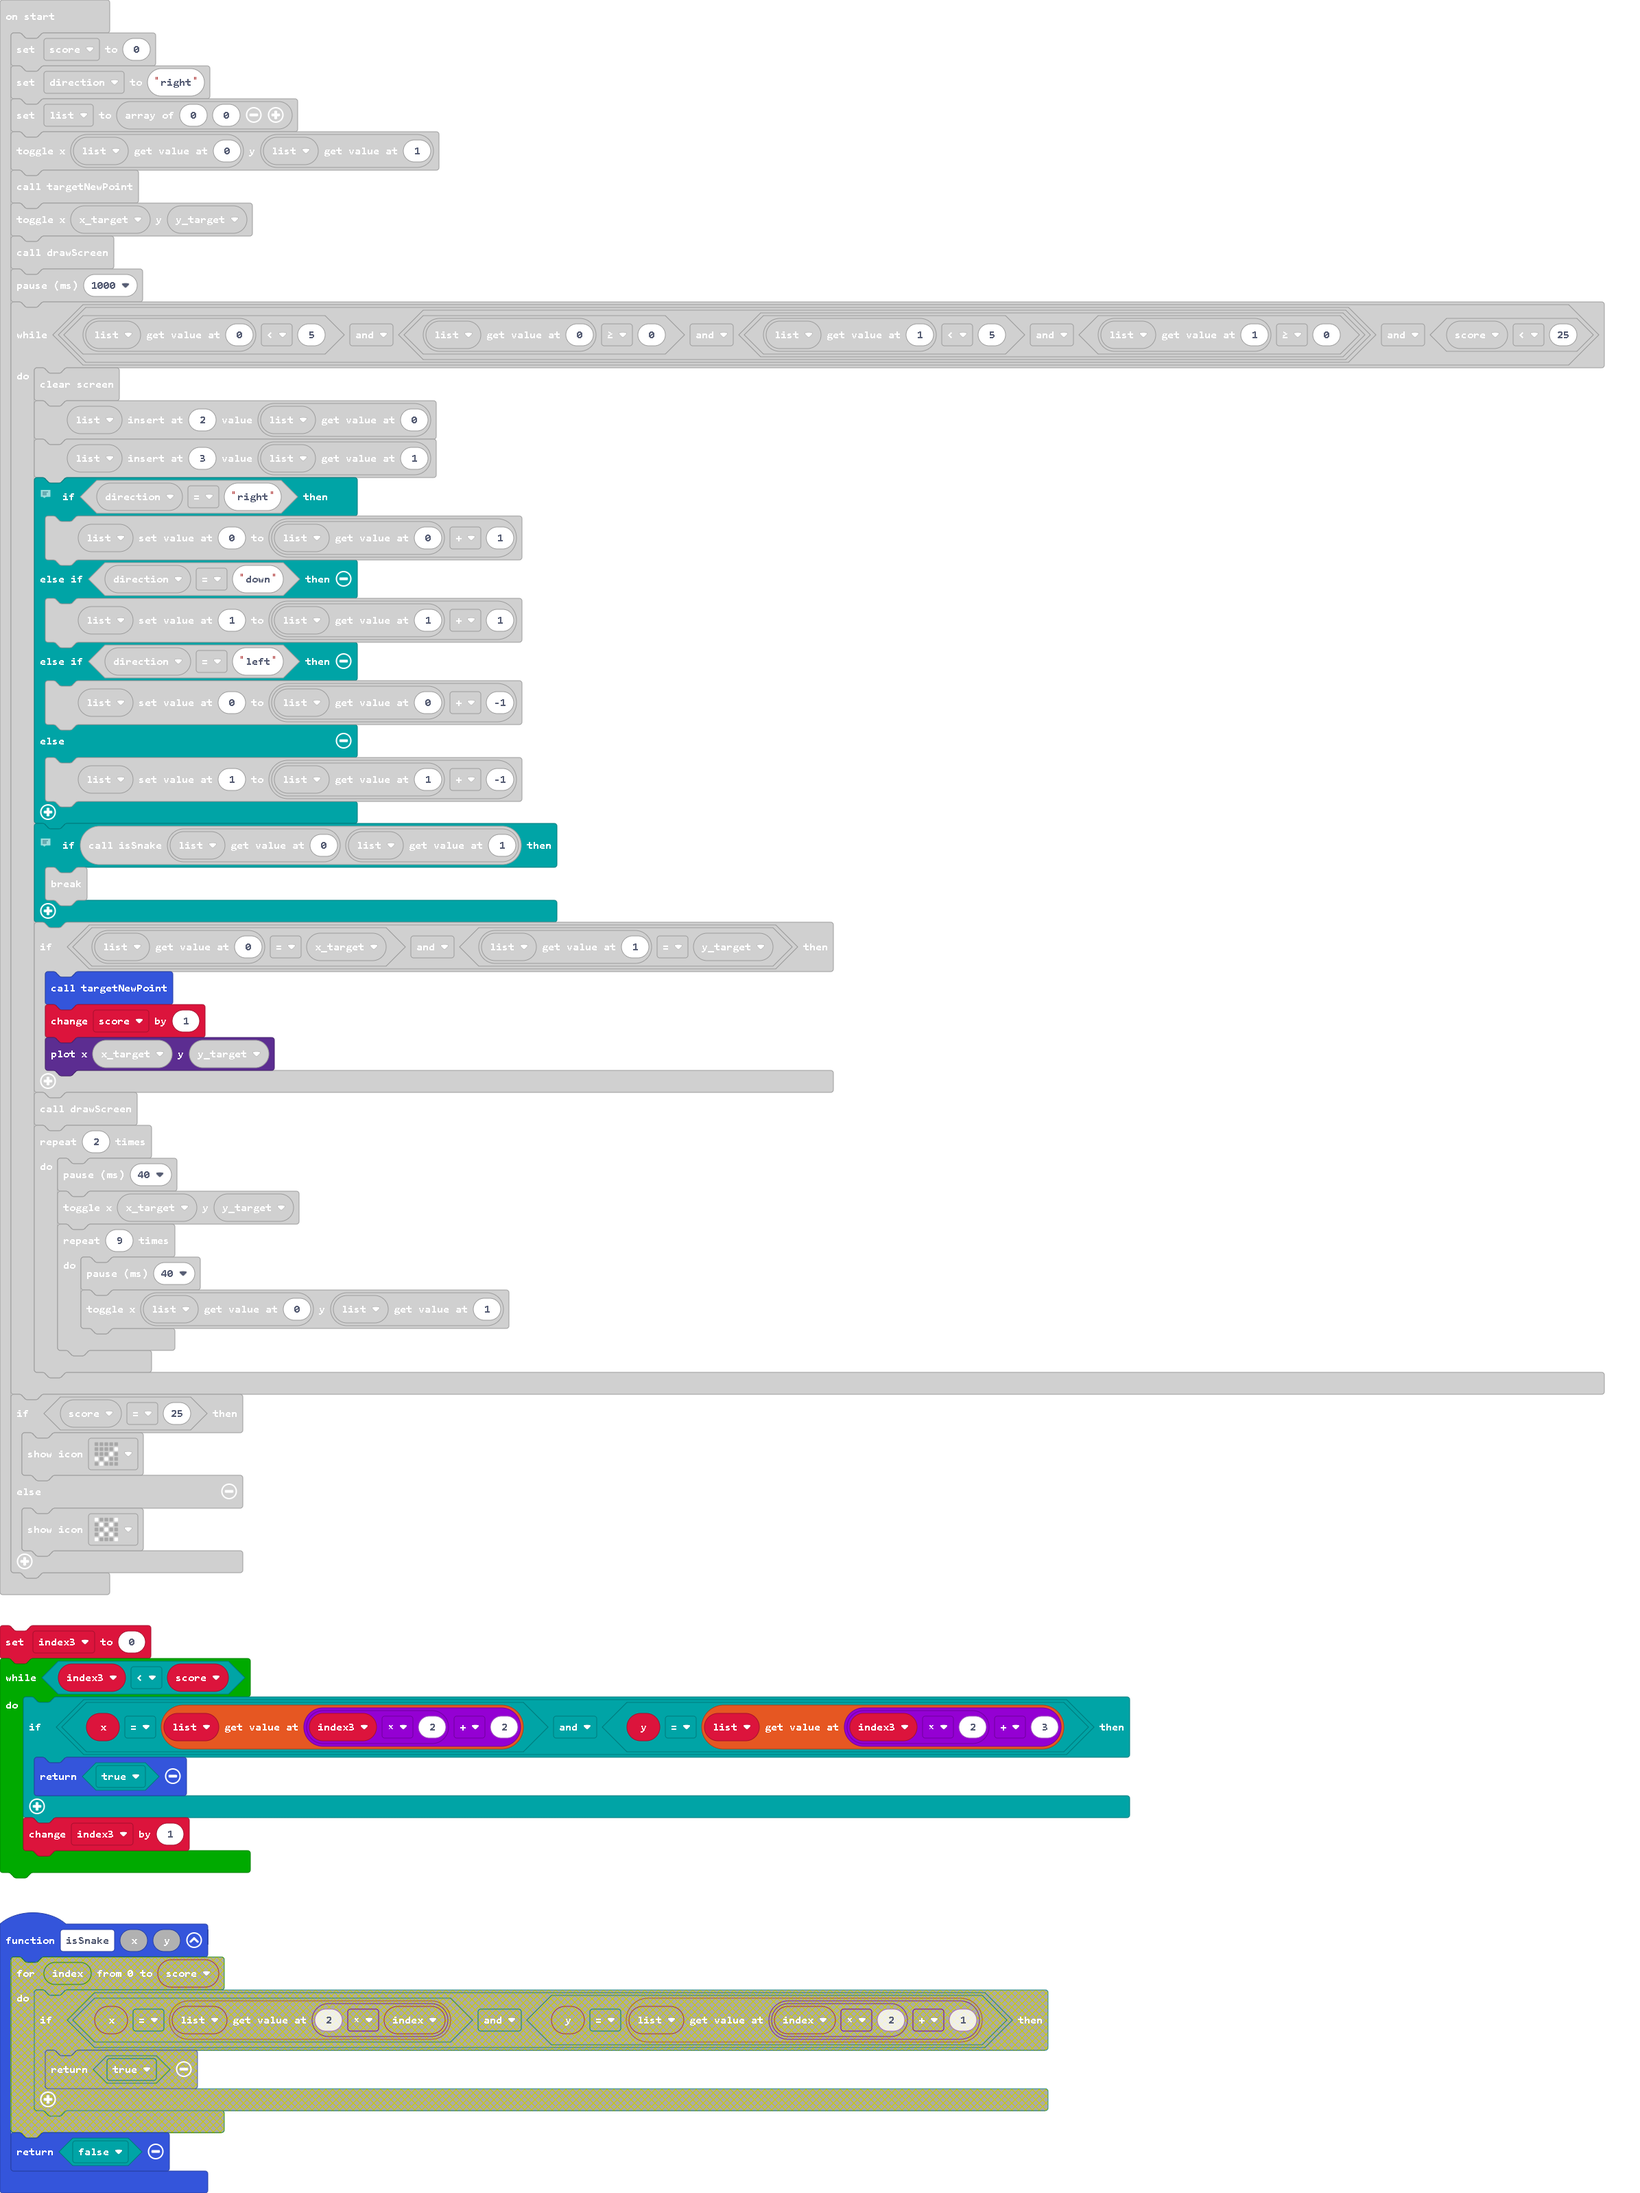
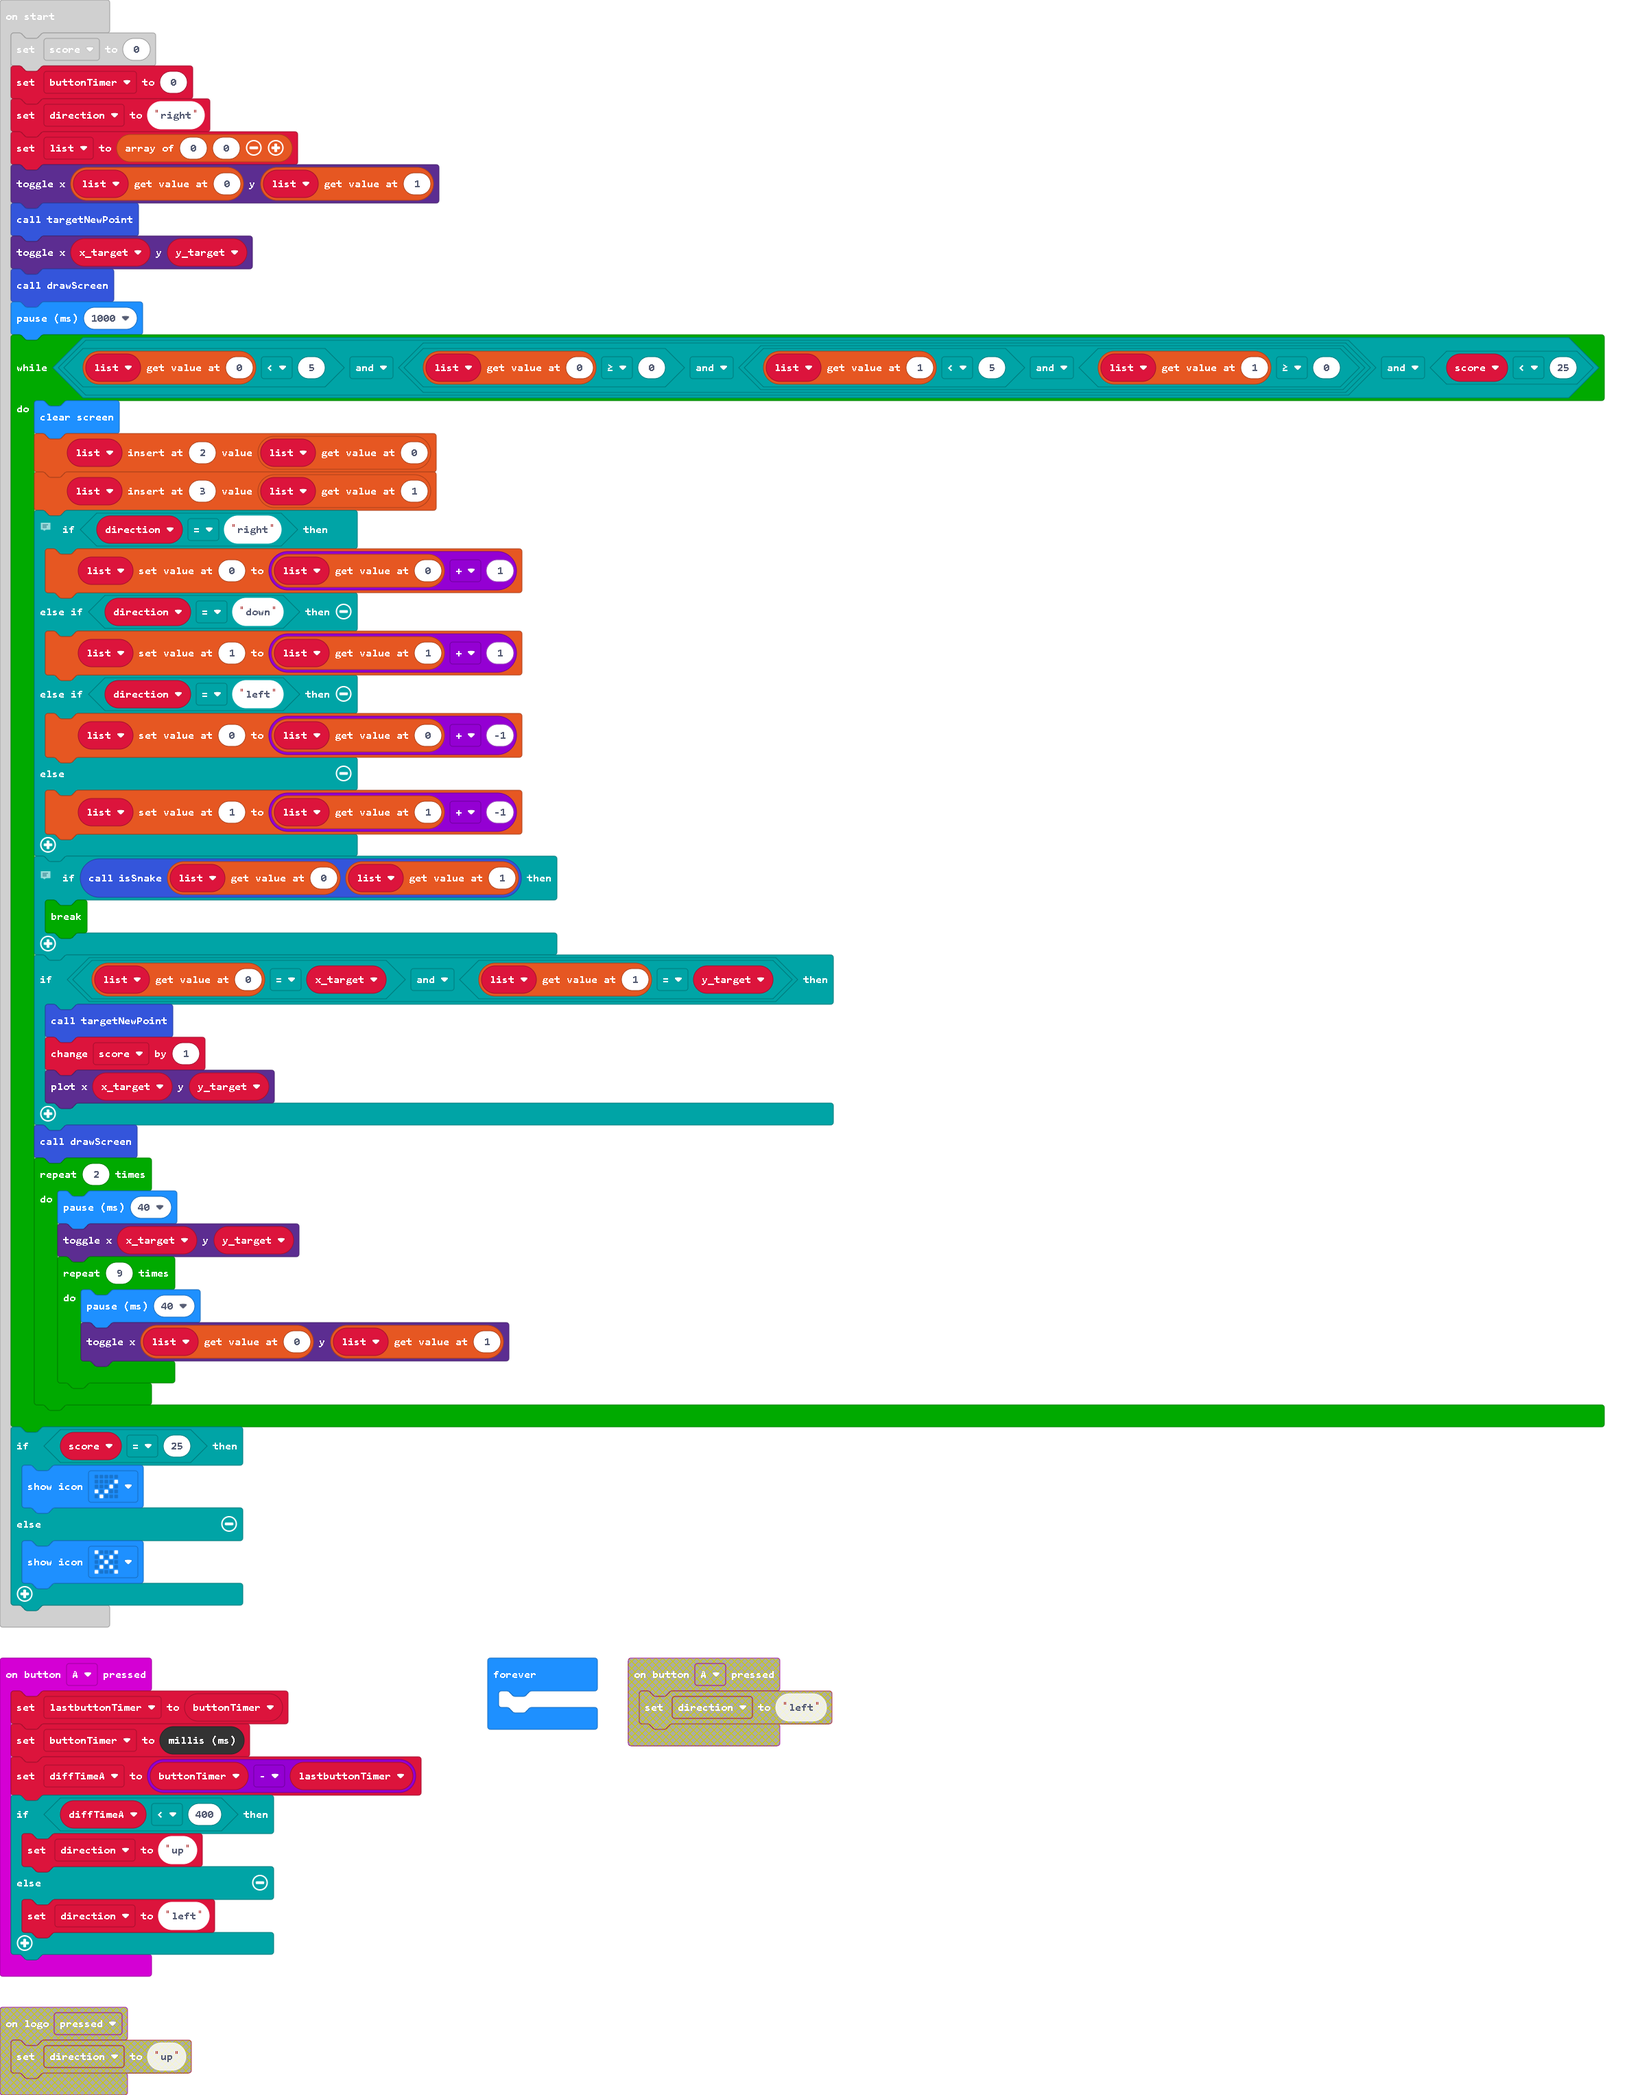
not tilting, double press A to go up

Changed region(s): [[0.0, 0.0, 0.9904, 1.0]]

diff --git a/main.ts b/main.ts
@@ -9,7 +9,14 @@ function targetNewPoint () {
     }
 }
 input.onButtonPressed(Button.A, function () {
-    direction = "left"
+    lastbuttonTimer = buttonTimer
+    buttonTimer = control.millis()
+    diffTimeA = buttonTimer - lastbuttonTimer
+    if (diffTimeA < 400) {
+        direction = "up"
+    } else {
+        direction = "left"
+    }
 })
 input.onButtonPressed(Button.AB, function () {
     direction = "down"
@@ -27,9 +34,6 @@ function isSnake (x: number, y: number) {
     }
     return false
 }
-input.onLogoEvent(TouchButtonEvent.Pressed, function () {
-    direction = "up"
-})
 function drawScreen () {
     led.plot(x_target, y_target)
     for (let index2 = 0; index2 <= score; index2++) {
@@ -37,13 +41,17 @@ function drawScreen () {
     }
 }
 let index3 = 0
+let diffTimeA = 0
+let lastbuttonTimer = 0
 let isInList = false
 let y_target = 0
 let x_target = 0
 let list: number[] = []
 let direction = ""
+let buttonTimer = 0
 let score = 0
 score = 0
+buttonTimer = 0
 direction = "right"
 list = [0, 0]
 led.toggle(list[0], list[1])
@@ -89,3 +97,6 @@ if (score == 25) {
 } else {
     basic.showIcon(IconNames.No)
 }
+basic.forever(function () {
+	
+})
